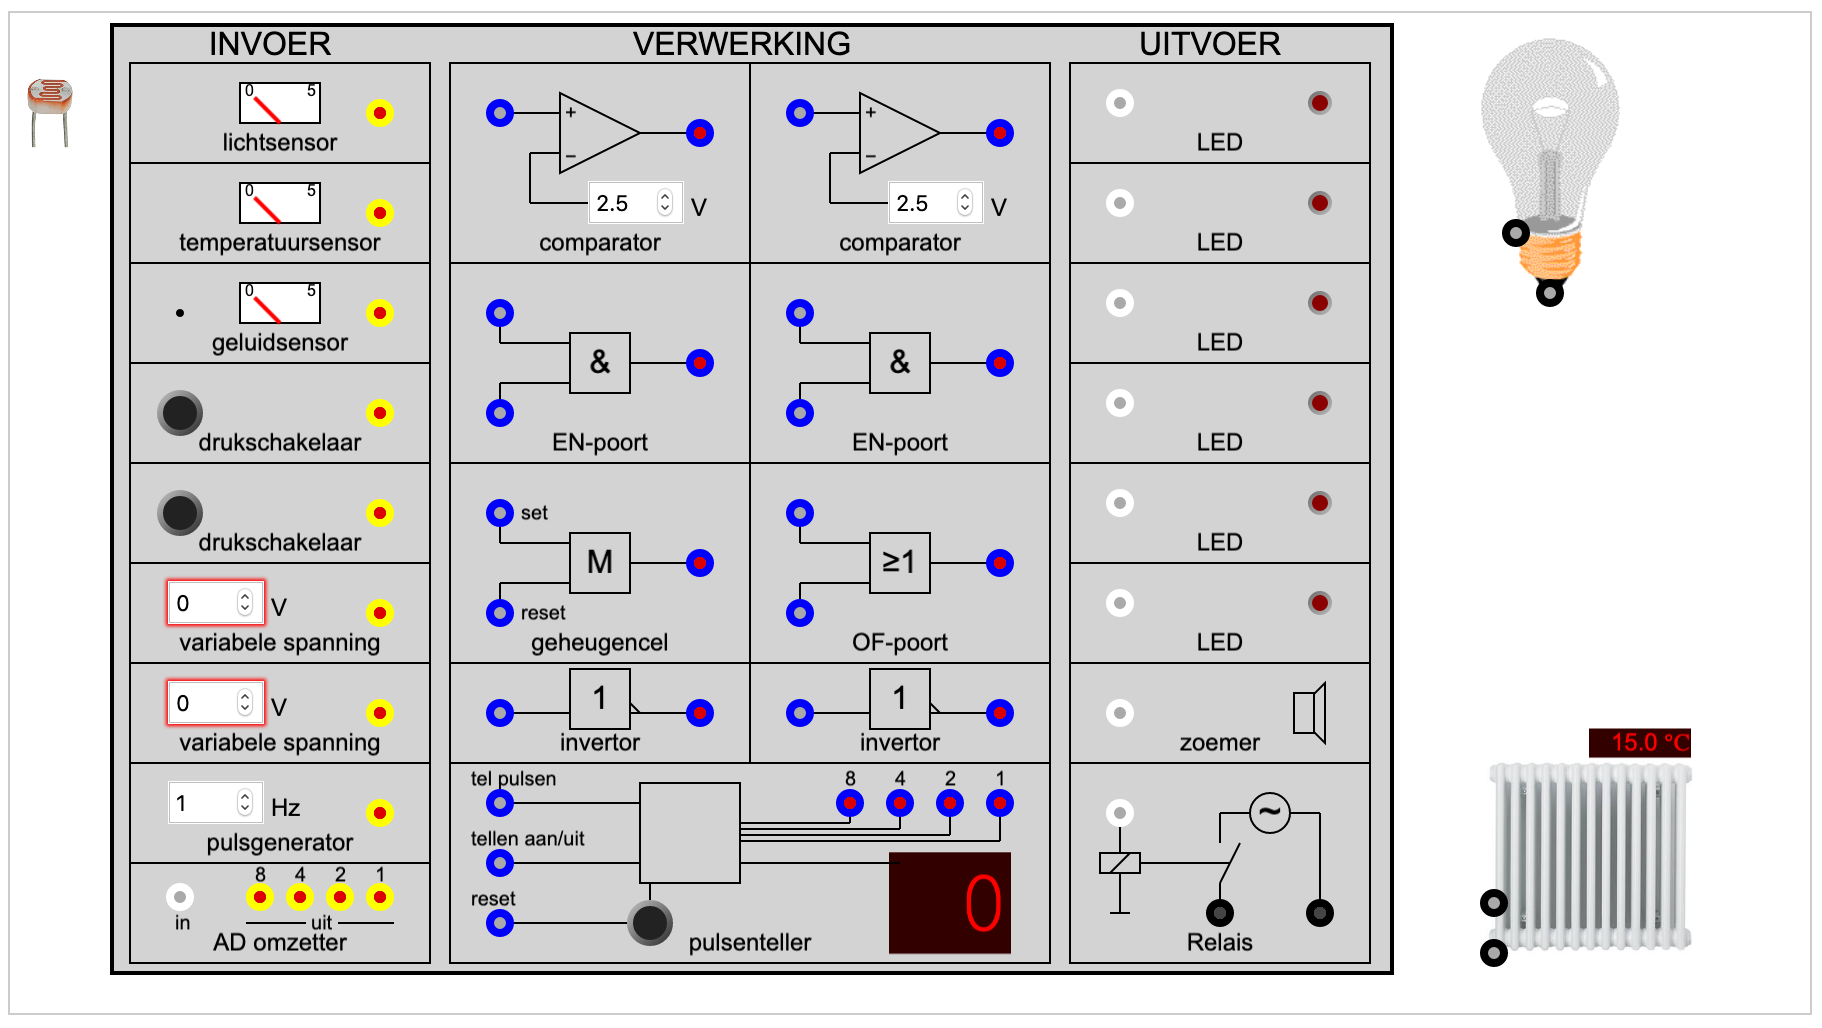
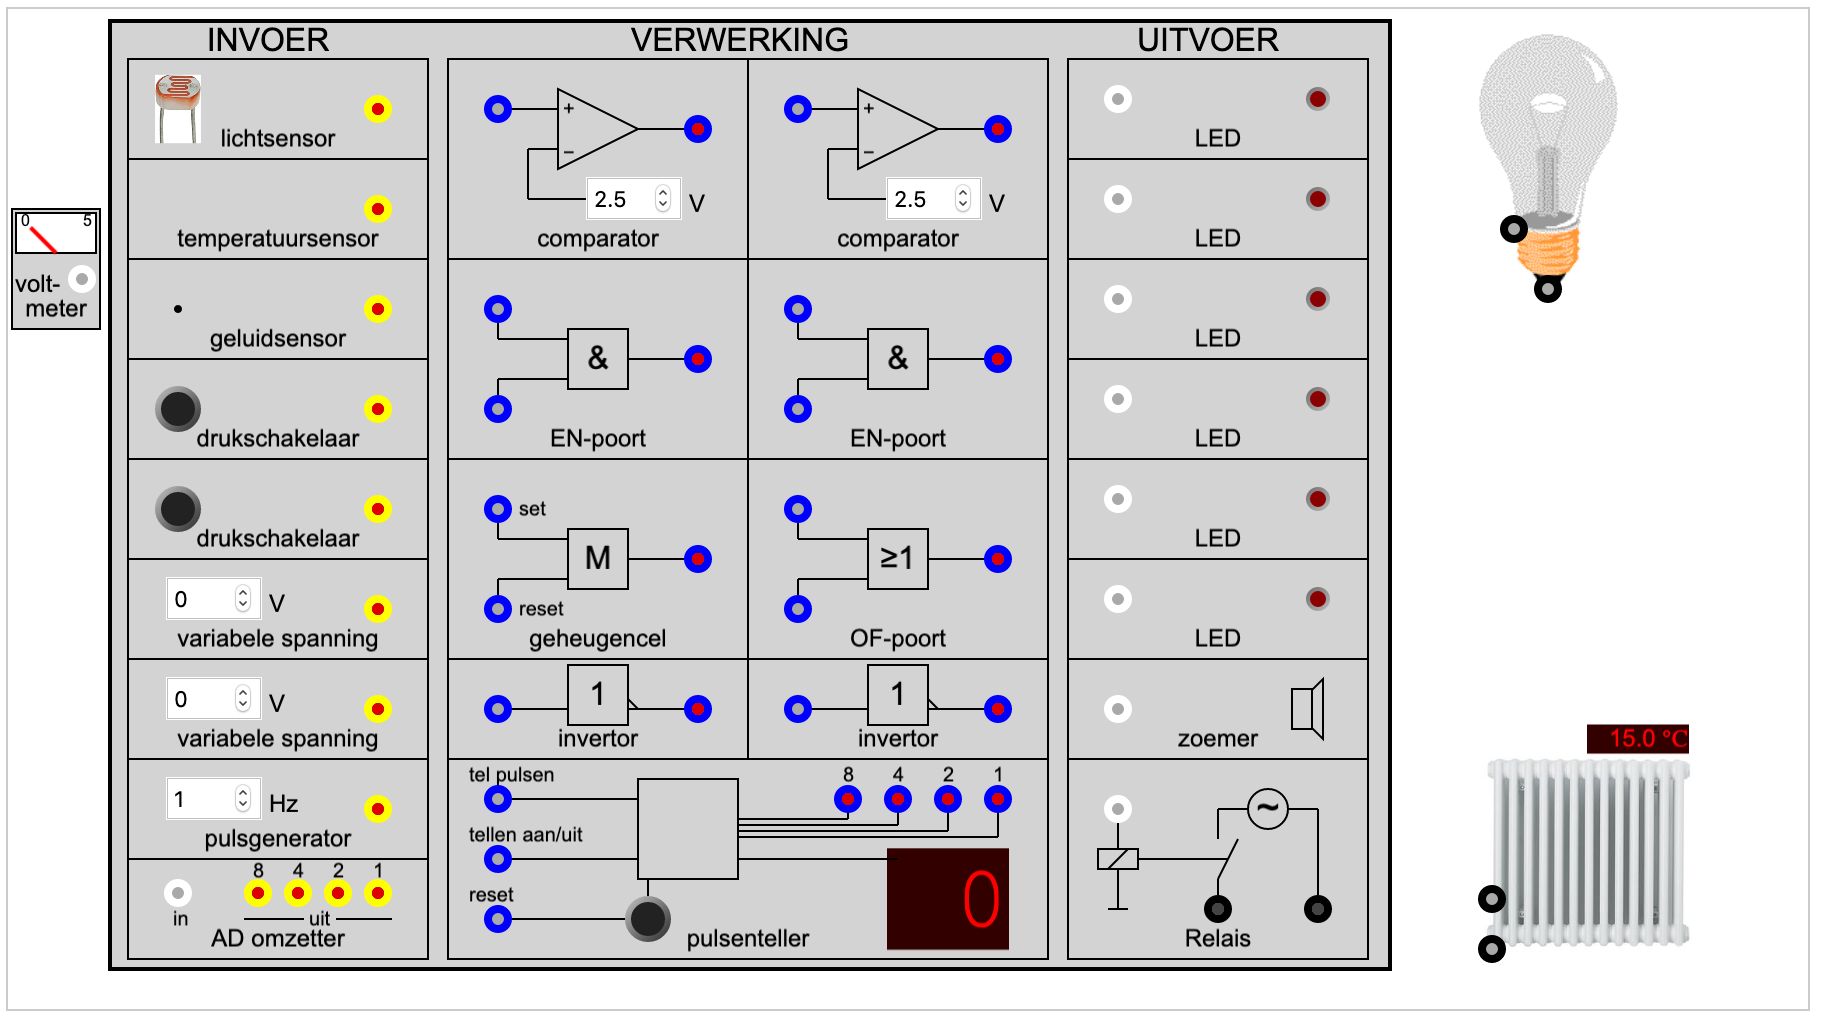
Added voltmeter

diff --git a/scripts/systemboard_engine.js b/scripts/systemboard_engine.js
@@ -616,7 +616,7 @@ function VarVoltage(x1,y1) {
   var elementName = "voltage"+x1.toString()+y1.toString();
 
   // Create an input DOM element
-  var input = inputDOM(x1+20,y1+10,elementName,"0","0.1","0.1","5");
+  var input = inputDOM(x1+20,y1+10,elementName,"0","0.1","0","5");
 
   // Create an ouput node and set voltage from the DOM element
   node.state = input.value;
@@ -948,11 +948,11 @@ function LightSensor(x1,y1) {
         selectable: false, evented: false });
   canvas.add(this.textbox);*/
 
-  drawText(x1+57,y1+19,"0",8);
-  drawText(x1+88,y1+19,"5",8);
-  this.display = makeDisplay(x1,y1);
+  //drawText(x1+57,y1+19,"0",8);
+  //drawText(x1+88,y1+19,"5",8);
+  //this.display = makeDisplay(x1,y1);
   
-  let node = new LightSensorNode(x1+boxWidth-25, y1+0.5*boxHeightSmall, x1-40, y1+25 );
+  let node = new LightSensorNode(x1+boxWidth-25, y1+0.5*boxHeightSmall, x1+25, y1+25 );
   this.nodes = [ node ] ; 
   var ldr = makeLDR(node.xLDR, node.yLDR, this.nodes[0]);
   canvas.add(ldr);
@@ -963,10 +963,10 @@ function LightSensor(x1,y1) {
   // Set voltage 
   this.output = function() { 
     //this.textbox.text = this.nodes[0].state.toFixed(2);
-    var angle = Math.PI*(0.25+0.5*(this.nodes[0].state/5.0));
+    /*var angle = Math.PI*(0.25+0.5*(this.nodes[0].state/5.0));
     var x2 = x1+75 - 18*Math.cos(angle);
     var y2 = y1+30 - 18*Math.sin(angle);
-    this.display.set({ 'x2': x2, 'y2': y2 });
+    this.display.set({ 'x2': x2, 'y2': y2 });*/
     return true; 
   };
   this.remove = function() { };
@@ -1024,9 +1024,9 @@ function TemperatureSensor(x1,y1) {
   this.x = x1;
   this.y = y1;
 
-  drawText(x1+57,y1+19,"0",8);
-  drawText(x1+88,y1+19,"5",8);
-  this.display = makeDisplay(x1,y1);
+  //drawText(x1+57,y1+19,"0",8);
+  //drawText(x1+88,y1+19,"5",8);
+  //this.display = makeDisplay(x1,y1);
   
   let node = new OutputNode(x1+boxWidth-25, y1+0.5*boxHeightSmall );
   this.nodes = [ node ] ;   
@@ -1038,10 +1038,10 @@ function TemperatureSensor(x1,y1) {
     var voltage = (temperatureInside - 15.0) * 0.2;
     voltage = Math.min(Math.max(0.0,voltage),5.0); // Range between 0.0 and 5.0 V
     this.nodes[0].state = voltage;
-    var angle = Math.PI*(0.25+0.5*(this.nodes[0].state/5.0));
+    /*var angle = Math.PI*(0.25+0.5*(this.nodes[0].state/5.0));
     var x2 = x1+75 - 18*Math.cos(angle);
     var y2 = y1+30 - 18*Math.sin(angle);
-    this.display.set({ 'x2': x2, 'y2': y2 });
+    this.display.set({ 'x2': x2, 'y2': y2 });*/
     return true; 
   };
   this.remove = function() { };
@@ -1063,9 +1063,9 @@ function SoundSensor(x1,y1) {
   canvas.add(circ);
   circ.sendToBack();
   
-  drawText(x1+57,y1+19,"0",8);
-  drawText(x1+88,y1+19,"5",8);
-  this.display = makeDisplay(x1,y1);
+  //drawText(x1+57,y1+19,"0",8);
+  //drawText(x1+88,y1+19,"5",8);
+  //this.display = makeDisplay(x1,y1);
   
   let node = new OutputNode(x1+boxWidth-25, y1+0.5*boxHeightSmall );
   this.nodes = [ node ] ;   
@@ -1076,10 +1076,10 @@ function SoundSensor(x1,y1) {
   this.soundLevel = 0.0;
   this.output = function() { 
     this.nodes[0].state = Math.min(0.05 * this.soundLevel, 5.0) ;
-    var angle = Math.PI*(0.25+0.5*(this.nodes[0].state/5.0));
+    /*var angle = Math.PI*(0.25+0.5*(this.nodes[0].state/5.0));
     var x2 = x1+75 - 18*Math.cos(angle);
     var y2 = y1+30 - 18*Math.sin(angle);
-    this.display.set({ 'x2': x2, 'y2': y2 });
+    this.display.set({ 'x2': x2, 'y2': y2 });*/
     return true; 
   };
   this.remove = function() { };
@@ -1113,6 +1113,45 @@ function SoundSensor(x1,y1) {
   });
 
 }    
+
+// Voltmeter
+function Voltmeter(x1,y1) {
+  this.x = x1;
+  this.y = y1;
+
+  drawText(x1+4,y1+11,"0",8);
+  drawText(x1+35,y1+11,"5",8);
+  
+  this.display = new fabric.Line([x1+22,y1+22,x1+22,y1+4], {strokeWidth: 2, stroke: 'red' ,
+                           selectable: false, evented: false});
+  canvas.add(this.display); this.display.sendToBack();
+
+  var r = new fabric.Rect({left: x1+22, top: y1+12, height: 20, width: 40, 
+                           fill: 'white', selectable: false, evented: false,
+                           stroke: 'black', strokeWidth: 1   });   
+  canvas.add(r); r.sendToBack();
+
+  //this.display = makeDisplay(x1-50,y1);
+  
+  let node = new InputNode(x1+35, y1+35 );
+  this.nodes = [ node ] ;   
+  drawConnectors(this.nodes, "white");
+
+  drawText(x1+1,y1+45,"volt-",12);
+  drawElementBox(x1,y1,44,boxHeightSmall+10,'meter');
+ 
+  // Set voltage 
+  this.output = function() { 
+    var angle = Math.PI*(0.25+0.5*(this.nodes[0].eval()/5.0));
+    var x2 = x1+22 - 18*Math.cos(angle);
+    var y2 = y1+22 - 18*Math.sin(angle);
+    this.display.set({ 'x2': x2, 'y2': y2 });
+    return true; 
+  };
+  this.remove = function() { };
+}    
+
+
 
 
 function removeElements() {
@@ -1383,8 +1422,9 @@ function addElement(className,x1,y1){
     case "SoundSensor" :
       elements.push(new SoundSensor(x1,y1));
     break;
-
-
+    case "Voltmeter" :
+      elements.push(new Voltmeter(x1,y1));
+    break;
 
   } 
 }

diff --git a/index.html b/index.html
@@ -62,6 +62,9 @@
     afhankelijk van de afstand tot de lamp, wanneer die aan staat.</br>
     De temperatuursensor is (draadloos) verbonden met de thermometer</br>
     bij de verwarming.</li>
+  <li><b>Voltmeter:</b><br/>
+    Met de voltmeter kan de spanning op een uitgang worden gemeten.</br>
+    De andere ingang van de voltmeter is al verbonden met de aarde.</li>
   <li><b>Zoemer:</b><br/>
     Er zit een vertraging in de zoemer van een halve seconde.</br>
     In iOS/Safari moet je vaak eerst de zoemer handmatig initialiseren,</br>
@@ -123,6 +126,7 @@
               new Relais(530,375),
               new Lightbulb(770,75),
               new Heater(790,420),          
+              new Voltmeter(2,100),          
              ];
   
   //removeElements();
